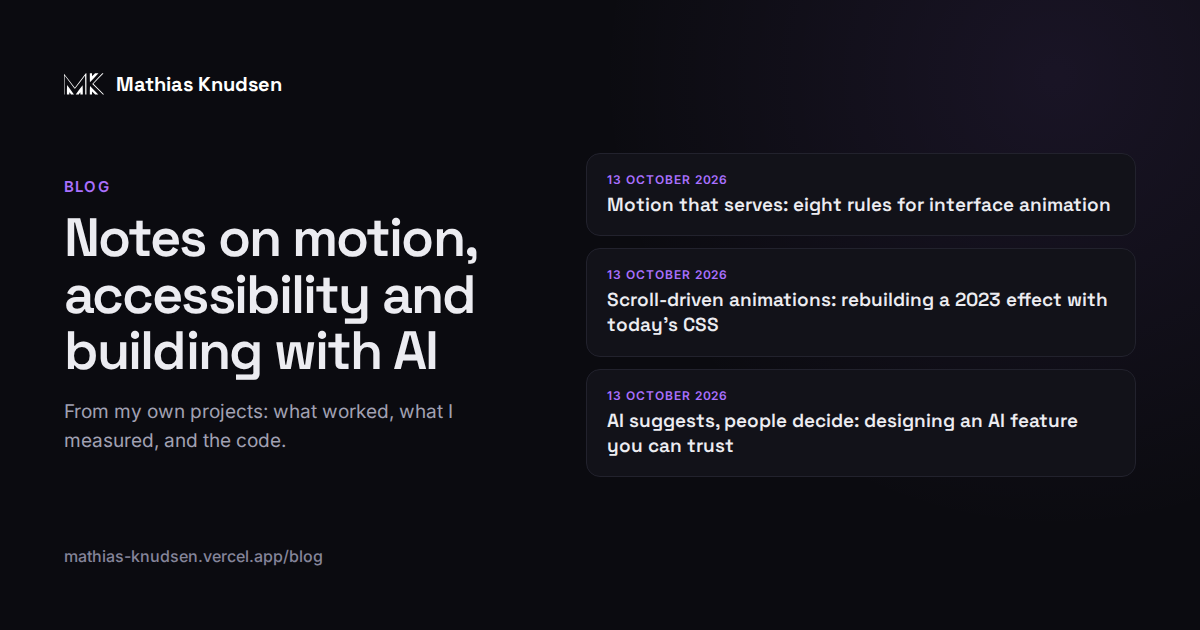
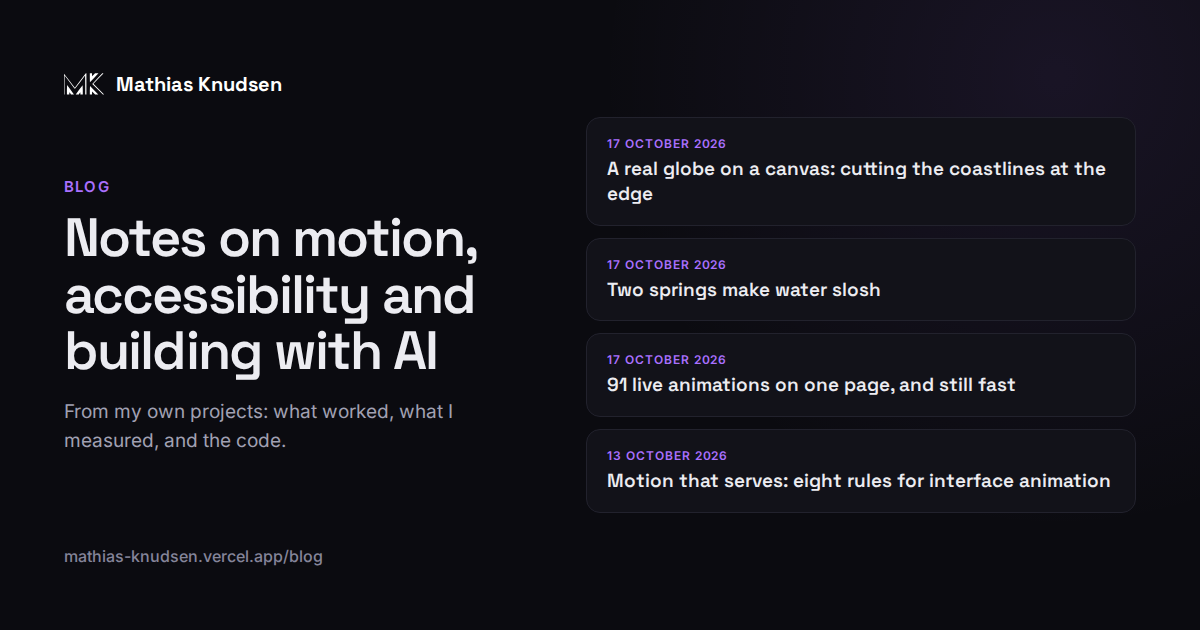
Blog: three posts from the lab
- A real globe on a canvas: the orthographic projection, cutting the
  coastlines at the edge of the sphere, and the two bugs a sweep of
  1,260 positions found.
- Two springs make water slosh: the test tube that keeps its water level
  while the glass tilts, and why the damping matters.
- 91 live animations on one page, and still fast: content-visibility,
  pausing what cannot be seen, one CSS clock, and three traps.

In English and in French, with their link previews. The tests that
counted the posts (and the site's pages) by hand now read them from the
blog's own data.

Claude-Session: https://claude.ai/code/session_01Af4ypNwssAxvDeozZygU7V

Changed region(s): [[0.4933, 0.3619, 0.925, 0.6333], [0.4933, 0.2111, 0.925, 0.3317], [0.4933, 0.6635, 0.925, 0.7841]]

diff --git a/src/blog/posts.js b/src/blog/posts.js
@@ -7,6 +7,208 @@ import { POST_META } from './meta.js'
 
 const BODIES = [
   {
+    slug: 'a-real-globe-on-a-canvas',
+    en: {
+      body: [
+        ['p', "An old CodePen of mine faked a globe: a photo of a world map sliding behind a round mask, with an inner shadow to make it look curved. It passes for a second, then you notice the continents slide flat across the middle and vanish at the edges without ever bending. For [the lab](/lab) I wanted the real thing, drawn on a 2D canvas, small enough to read in its code panel."],
+        ['h2', 'The data: 986 points of coastline'],
+        ['p', "The coastlines come from Natural Earth, which is in the public domain. Even its simplest version has more than 5,000 points, and a globe 130 pixels wide does not need that many. Simplified with the Douglas-Peucker algorithm, without the smallest islands, and rounded to half a degree, the land fits in 986 points: about 4 KB of text, written like an SVG path, one shape per `M` followed by relative steps."],
+        ['h2', 'Projecting: a sphere seen from far away'],
+        ['p', "An orthographic projection is the view of a sphere from very far away. Turn the globe by a longitude, tilt it towards the viewer, and each point keeps its x and y on the screen, while z says whether it faces us."],
+        ['code', 'js', `const project = ([lon, lat], turn) => {
+  const l = (lon + turn) * rad, p = lat * rad, t = tilt * rad
+  const x = Math.cos(p) * Math.sin(l), y = Math.sin(p), z = Math.cos(p) * Math.cos(l)
+  return { x, y: y * Math.cos(t) - z * Math.sin(t), z: y * Math.sin(t) + z * Math.cos(t) }
+}`, 'x to the right, y up, z towards the viewer: z above 0 means this side of the globe.'],
+        ['h2', 'Cutting at the edge'],
+        ['p', "The hard part is a coastline that goes round the back. Where a segment crosses from the front to the back, it meets the edge of the globe; that point lies on the straight line between its two ends, where z is 0. From there, the shape has to follow the edge of the globe until the coast comes back into view."],
+        ['p', "My first version followed the edge to the next place where the same coastline came back, in the order of its points. On most frames it looked right; at some angles the whole globe turned green. A coast that dips into view near the edge and leaves again further along broke it. The right place to rejoin is the next point where any piece comes back, **along the edge**, going round in the direction that keeps the land on the same side. That is the classic rule of polygon clipping."],
+        ['code', 'js', `// from where the coast went behind, follow the edge to the nearest place
+// where a piece comes back (way is 1 for a clockwise shape, -1 otherwise)
+const next = pieces.reduce((best, other) =>
+  turnTo(piece.to, other.from) < turnTo(piece.to, best.from) ? other : best)
+ctx.arc(c, c, r, piece.to, piece.to + turnTo(piece.to, next.from) * way, !clockwise)`],
+        ['h2', 'Two bugs the eye would never have found'],
+        ['ul', [
+          "**Cuba crossed itself.** Rounded to whole degrees, its thin outline became a figure of eight, which reverses its direction in one place, and the edge was then followed the wrong way round. At half a degree, none of the 49 shapes crosses itself, which a small script checks.",
+          "**A coast that only grazes the edge.** When a single point peeks out by a fraction of a pixel, its way in and its way out land on the same spot, and rounding can swap them. Such a piece shows nothing, so it is left out.",
+        ]],
+        ['p', "Neither bug showed up while I watched the globe turn. Both showed up when a script turned it to 1,260 positions (every 2 degrees, at 7 tilts) and measured the share of land on the visible side. The Earth never shows much more than two thirds of land, so a frame above that is a bug, whatever it looks like."],
+        ['h2', 'A CSS animation as the clock'],
+        ['p', "The globe turns with a CSS animation, and the canvas reads how far it has run at each frame. It sounds backwards, but it means the globe pauses with the lab's pause button, stays still for people who ask for reduced motion, and costs nothing off screen, like every other demo."],
+        ['code', 'css', `.lb-globe { animation: lb-turn 32s linear infinite; }
+
+@keyframes lb-turn { to { --lb-turn: 360; } }
+
+@media (prefers-reduced-motion: reduce) {
+  .lb-globe { animation: none; }
+}`],
+        ['code', 'js', `const clock = canvas.getAnimations().find((a) => a.animationName === 'lb-turn')
+const turn = (clock?.effect.getComputedTiming().progress ?? 0) * 360`, 'Read at each frame, and drawn again only when it changed. A paused animation gives a paused globe; no animation, no turn.'],
+        ['p', "Drag the globe and it spins on top of that, slowing down when you let go."],
+      ],
+    },
+    fr: {
+      body: [
+        ['p', "Un de mes anciens CodePen simulait un globe : la photo d'une carte du monde qui glissait derrière un masque rond, avec une ombre intérieure pour donner l'illusion du volume. Ça fait illusion une seconde, puis on remarque que les continents traversent le milieu à plat et disparaissent sur les bords sans jamais se courber. Pour [le lab](/lab), je voulais un vrai globe, dessiné sur un canvas 2D, assez court pour se lire dans son panneau de code."],
+        ['h2', 'Les données : 986 points de côtes'],
+        ['p', "Les côtes viennent de Natural Earth, qui est dans le domaine public. Même sa version la plus simple compte plus de 5 000 points, et un globe de 130 pixels de large n'en a pas besoin d'autant. Simplifiées avec l'algorithme de Douglas-Peucker, sans les plus petites îles, et arrondies au demi-degré, les terres tiennent en 986 points : environ 4 Ko de texte, écrits comme un tracé SVG, une forme par `M` suivie de pas relatifs."],
+        ['h2', 'Projeter : une sphère vue de très loin'],
+        ['p', "Une projection orthographique, c'est une sphère vue de très loin. On tourne le globe d'une longitude, on l'incline vers le spectateur, et chaque point garde ses x et y à l'écran, tandis que z dit s'il est face à nous."],
+        ['code', 'js', `const project = ([lon, lat], turn) => {
+  const l = (lon + turn) * rad, p = lat * rad, t = tilt * rad
+  const x = Math.cos(p) * Math.sin(l), y = Math.sin(p), z = Math.cos(p) * Math.cos(l)
+  return { x, y: y * Math.cos(t) - z * Math.sin(t), z: y * Math.sin(t) + z * Math.cos(t) }
+}`, "x vers la droite, y vers le haut, z vers le spectateur : z au-dessus de 0 veut dire de ce côté-ci du globe."],
+        ['h2', 'Couper au bord'],
+        ['p', "Le plus difficile, c'est une côte qui passe derrière. Là où un segment passe de l'avant à l'arrière, il croise le bord du globe ; ce point se trouve sur la droite entre ses deux extrémités, là où z vaut 0. À partir de là, la forme doit suivre le bord du globe jusqu'à ce que la côte revienne en vue."],
+        ['p', "Ma première version suivait le bord jusqu'au prochain endroit où la même côte revenait, dans l'ordre de ses points. Sur la plupart des images, c'était juste ; sous certains angles, tout le globe devenait vert. Une côte qui apparaît près du bord puis repart un peu plus loin suffisait à tout casser. Le bon endroit où reprendre, c'est le prochain point où un morceau revient, **le long du bord**, en tournant dans le sens qui garde la terre du même côté. C'est la règle classique du découpage de polygones."],
+        ['code', 'js', `// depuis l'endroit où la côte est passée derrière, suivre le bord jusqu'au
+// plus proche endroit où un morceau revient (way vaut 1 pour une forme
+// dans le sens horaire, -1 sinon)
+const next = pieces.reduce((best, other) =>
+  turnTo(piece.to, other.from) < turnTo(piece.to, best.from) ? other : best)
+ctx.arc(c, c, r, piece.to, piece.to + turnTo(piece.to, next.from) * way, !clockwise)`],
+        ['h2', "Deux bugs que l'œil n'aurait jamais trouvés"],
+        ['ul', [
+          "**Cuba se croisait elle-même.** Arrondi au degré, son contour très fin devenait un huit, ce qui inverse son sens à un endroit : le bord était alors suivi dans le mauvais sens. Au demi-degré, aucune des 49 formes ne se croise, et un petit script le vérifie.",
+          "**Une côte qui frôle le bord.** Quand un seul point dépasse d'une fraction de pixel, son entrée et sa sortie tombent au même endroit, et un arrondi peut les inverser. Un tel morceau ne montre rien : il est laissé de côté.",
+        ]],
+        ['p', "Aucun des deux bugs ne se voyait en regardant le globe tourner. Les deux sont apparus quand un script l'a fait tourner dans 1 260 positions (tous les 2 degrés, sous 7 inclinaisons) en mesurant la part de terre sur la face visible. La Terre ne montre jamais beaucoup plus de deux tiers de terres : une image au-dessus, c'est un bug, quoi qu'elle ait l'air."],
+        ['h2', "Une animation CSS comme horloge"],
+        ['p', "Le globe tourne grâce à une animation CSS, et le canvas lit à chaque image où elle en est. Ça semble à l'envers, mais le globe se met ainsi en pause avec le bouton du lab, reste immobile pour ceux qui demandent moins de mouvement, et ne coûte rien hors de l'écran, comme toutes les autres démos."],
+        ['code', 'css', `.lb-globe { animation: lb-turn 32s linear infinite; }
+
+@keyframes lb-turn { to { --lb-turn: 360; } }
+
+@media (prefers-reduced-motion: reduce) {
+  .lb-globe { animation: none; }
+}`],
+        ['code', 'js', `const clock = canvas.getAnimations().find((a) => a.animationName === 'lb-turn')
+const turn = (clock?.effect.getComputedTiming().progress ?? 0) * 360`, "Lue à chaque image, et redessinée seulement quand elle a changé. Animation en pause, globe en pause ; pas d'animation, pas de rotation."],
+        ['p', "Attrapez le globe : il tourne en plus, et ralentit quand on le lâche."],
+      ],
+    },
+  },
+  {
+    slug: 'two-springs-make-water-slosh',
+    en: {
+      body: [
+        ['p', "In [the lab](/lab), a test tube leans towards your pointer, and the water inside lags behind the glass, overshoots, and settles. It takes two springs and a dozen lines of JavaScript."],
+        ['h2', 'The water stays level'],
+        ['p', "Tilt a real glass and its water does not tilt with it. In SVG, that means the glass and the water live in different coordinates: the glass turns, the water does not, and the water is cut to the inside of the glass by a clip path that turns with the glass."],
+        ['code', 'html', `<clipPath id="inside"><path d="M33 16v157a17 17 0 0 0 34 0V16z"/></clipPath>
+<g clip-path="url(#inside)">
+  <g class="water"><!-- waves and bubbles --></g>
+</g>
+<g class="glass"><!-- outline, marks, shine --></g>`, "The script turns the glass and the clip path's shape together; the water only moves up and down."],
+        ['h2', 'Spring one: the glass'],
+        ['p', "The glass follows the pointer on a stiff, well damped spring: it leans quickly and stops without wobbling. A spring is two lines a frame: a pull towards the target, minus a brake that grows with the speed."],
+        ['code', 'js', `speed += ((aim - tilt) * 120 - speed * 18) * dt
+tilt += speed * dt`, 'A stiffness of 120 and a damping of 18: close to critical, so no bounce.'],
+        ['h2', 'Spring two: the water'],
+        ['p', "The water follows the glass on a softer spring, with very little damping. When the glass turns quickly, the water's idea of the angle falls behind, then overshoots. The gap between the two is the slosh, applied as a rotation of the water's surface."],
+        ['code', 'js', `lagSpeed += ((tilt - lag) * 60 - lagSpeed * 3.4) * dt
+lag += lagSpeed * dt
+const slosh = (lag - tilt) * 1.5`],
+        ['p', "The numbers matter. With a damping of 2.6, the water was still rocking two and a half seconds after the pointer left, and a test caught it before I did: it waits for the surface to settle, and it failed. At 3.4, the water sloshes two or three times and stops, which is what water does in a narrow tube."],
+        ['h2', 'Small things that make it hold up'],
+        ['ul', [
+          "**Time, not frames.** Each step uses the real time since the last frame, capped at a thirtieth of a second, so a slow phone or a tab coming back to the front cannot make the springs explode.",
+          "**No loop at rest.** When the glass and the water are both still, the script stops asking for frames; the next pointer move wakes it up.",
+          "**The waves are CSS.** Two long wave strips drift sideways at their own pace, and the bubbles rise and burst with CSS animations. They pause with the rest of the lab, and for people who ask for reduced motion they stop, along with the tilt.",
+        ]],
+        ['p', "The same two springs work for anything that should feel like it has weight: a hanging sign, a card on a string, the liquid in a progress bar."],
+      ],
+    },
+    fr: {
+      body: [
+        ['p', "Dans [le lab](/lab), un tube à essai penche vers le curseur, et l'eau à l'intérieur prend du retard sur le verre, dépasse, puis se pose. Il suffit de deux ressorts et d'une douzaine de lignes de JavaScript."],
+        ['h2', "L'eau reste à niveau"],
+        ['p', "Penchez un vrai verre : l'eau ne penche pas avec lui. En SVG, ça veut dire que le verre et l'eau vivent dans des repères différents : le verre tourne, l'eau non, et l'eau est découpée à l'intérieur du verre par un clip path qui tourne avec le verre."],
+        ['code', 'html', `<clipPath id="inside"><path d="M33 16v157a17 17 0 0 0 34 0V16z"/></clipPath>
+<g clip-path="url(#inside)">
+  <g class="water"><!-- vagues et bulles --></g>
+</g>
+<g class="glass"><!-- contour, graduations, reflet --></g>`, "Le script fait tourner ensemble le verre et la forme du clip path ; l'eau, elle, ne fait que monter et descendre."],
+        ['h2', 'Premier ressort : le verre'],
+        ['p', "Le verre suit le curseur sur un ressort raide et bien amorti : il penche vite et s'arrête sans osciller. Un ressort, c'est deux lignes par image : une traction vers la cible, moins un frein qui grandit avec la vitesse."],
+        ['code', 'js', `speed += ((aim - tilt) * 120 - speed * 18) * dt
+tilt += speed * dt`, "Une raideur de 120 et un amortissement de 18 : proche du critique, donc pas de rebond."],
+        ['h2', "Second ressort : l'eau"],
+        ['p', "L'eau suit le verre sur un ressort plus souple, très peu amorti. Quand le verre tourne vite, l'angle que « croit » l'eau prend du retard, puis dépasse. L'écart entre les deux, c'est le clapotis, appliqué comme une rotation de la surface de l'eau."],
+        ['code', 'js', `lagSpeed += ((tilt - lag) * 60 - lagSpeed * 3.4) * dt
+lag += lagSpeed * dt
+const slosh = (lag - tilt) * 1.5`],
+        ['p', "Les chiffres comptent. Avec un amortissement de 2,6, l'eau bougeait encore deux secondes et demie après le départ du curseur, et un test l'a vu avant moi : il attend que la surface se pose, et il a échoué. À 3,4, l'eau clapote deux ou trois fois puis s'arrête, comme de l'eau dans un tube étroit."],
+        ['h2', 'Les petits détails qui la rendent solide'],
+        ['ul', [
+          "**Le temps, pas les images.** Chaque pas utilise le temps réel écoulé depuis l'image précédente, plafonné à un trentième de seconde : un téléphone lent ou un onglet qui revient au premier plan ne peut pas faire exploser les ressorts.",
+          "**Pas de boucle au repos.** Quand le verre et l'eau sont immobiles, le script arrête de demander des images ; le prochain mouvement du curseur le réveille.",
+          "**Les vagues sont en CSS.** Deux longues bandes de vagues dérivent chacune à son rythme, et les bulles montent et éclatent avec des animations CSS. Elles se mettent en pause avec le reste du lab et, pour ceux qui demandent moins de mouvement, elles s'arrêtent, tout comme l'inclinaison.",
+        ]],
+        ['p', "Les deux mêmes ressorts marchent pour tout ce qui doit sembler avoir un poids : une enseigne suspendue, une carte au bout d'un fil, le liquide d'une barre de progression."],
+      ],
+    },
+  },
+  {
+    slug: '91-live-animations-one-page',
+    en: {
+      body: [
+        ['p', "[The lab](/lab) is a single page with 91 animations, all live: buttons that ripple, loaders that turn, a globe, a test tube full of bubbles. Each one is real HTML and CSS, sometimes with a little JavaScript, not a video. A page like that can easily make a phone hot and slow. It scores 97 for performance on Lighthouse's mobile test, with around 30 milliseconds of blocking time. Three things keep it there."],
+        ['h2', "1. Don't draw what nobody sees"],
+        ['p', "With `content-visibility: auto`, the browser skips the layout and the painting of a card while it is far off screen. Before it, the page scored between 90 and 95; after, 97. The catch is the scroll bar: a skipped card has no size, so the page would jump as cards come into view. `contain-intrinsic-size` gives each card a size to keep in reserve, and the `auto` keyword remembers its real size once it has been seen."],
+        ['code', 'css', `.lab-card {
+  content-visibility: auto;
+  contain-intrinsic-size: auto 470px;
+}`],
+        ['h2', '2. Pause what cannot be seen'],
+        ['p', "Skipping the painting does not stop the animations. Each card watches itself with an IntersectionObserver and marks itself when it is near the screen; everything else is paused by one rule. The pause button at the top of the page uses the same rule for the whole grid."],
+        ['code', 'css', `.lab-card:not([data-inview]) .lab-stage *,
+.lab-grid[data-paused] .lab-stage * {
+  animation-play-state: paused !important;
+}`],
+        ['p', "JavaScript does the same where it animates on its own: the globe and the test tube only ask for frames while they are on screen, and stop asking as soon as nothing moves."],
+        ['h2', '3. One clock for everyone'],
+        ['p', "When a demo needs JavaScript to draw, its timing still comes from CSS. The globe's turn is a CSS animation of a typed property that the canvas reads, so the pause rule, the off screen rule and reduced motion all apply to it without a single extra line. I wrote more about it in [a real globe on a canvas](/blog/a-real-globe-on-a-canvas)."],
+        ['h2', 'Three traps I fell into'],
+        ['ul', [
+          "**Filtering jumped to the top of the page.** Clicking a category swaps the cards, and the browser's scroll anchoring picked an anchor of its own, often the top of the page. `overflow-anchor: none` on the grid turns it off, and the page scrolls to the results itself.",
+          "**A focused demo scrolled its own card.** With `overflow: hidden`, a button that receives the focus inside a card can still scroll the card to show itself: one demo moved 58 pixels sideways. `overflow: clip` cuts the same way, but nothing can scroll it.",
+          "**A French label widened the menu.** The French pause button, Mettre les animations en pause, was too long for its 220 pixel column; the grid track grew to fit it and cut off everything else. `minmax(0, 1fr)` keeps the column at its width, and the label became Tout mettre en pause. Only a test run in both languages caught it.",
+        ]],
+        ['p', "None of this is exotic: two CSS properties, one observer, one rule for pausing. What made the difference was measuring before and after each change, on a phone profile, not on my desk."],
+      ],
+    },
+    fr: {
+      body: [
+        ['p', "[Le lab](/lab) est une seule page avec 91 animations, toutes en direct : des boutons qui ondulent, des chargements qui tournent, un globe, un tube à essai plein de bulles. Chacune est du vrai HTML et du CSS, parfois avec un peu de JavaScript, pas une vidéo. Une page pareille peut vite faire chauffer et ralentir un téléphone. Elle obtient 97 en performance au test mobile de Lighthouse, avec environ 30 millisecondes de blocage. Trois choses l'y maintiennent."],
+        ['h2', '1. Ne pas dessiner ce que personne ne voit'],
+        ['p', "Avec `content-visibility: auto`, le navigateur saute la mise en page et le dessin d'une carte tant qu'elle est loin de l'écran. Avant, la page obtenait entre 90 et 95 ; après, 97. Le piège, c'est la barre de défilement : une carte sautée n'a pas de taille, et la page sauterait à mesure que les cartes apparaissent. `contain-intrinsic-size` donne à chaque carte une taille à garder en réserve, et le mot-clé `auto` retient sa vraie taille une fois qu'elle a été vue."],
+        ['code', 'css', `.lab-card {
+  content-visibility: auto;
+  contain-intrinsic-size: auto 470px;
+}`],
+        ['h2', "2. Mettre en pause ce qu'on ne voit pas"],
+        ['p', "Sauter le dessin n'arrête pas les animations. Chaque carte se surveille avec un IntersectionObserver et se marque quand elle est près de l'écran ; tout le reste est mis en pause par une seule règle. Le bouton pause en haut de la page utilise la même règle pour toute la grille."],
+        ['code', 'css', `.lab-card:not([data-inview]) .lab-stage *,
+.lab-grid[data-paused] .lab-stage * {
+  animation-play-state: paused !important;
+}`],
+        ['p', "Le JavaScript fait de même là où il anime lui-même : le globe et le tube à essai ne demandent des images que lorsqu'ils sont à l'écran, et arrêtent dès que plus rien ne bouge."],
+        ['h2', '3. Une seule horloge pour tous'],
+        ['p', "Quand une démo a besoin de JavaScript pour dessiner, son rythme vient quand même du CSS. La rotation du globe est une animation CSS d'une propriété typée que le canvas lit : la règle de pause, la règle hors écran et le mouvement réduit s'y appliquent sans une ligne de plus. J'en parle davantage dans [un vrai globe sur un canvas](/blog/a-real-globe-on-a-canvas)."],
+        ['h2', 'Trois pièges dans lesquels je suis tombé'],
+        ['ul', [
+          "**Filtrer renvoyait en haut de la page.** Cliquer sur une catégorie remplace les cartes, et l'ancrage du défilement du navigateur choisissait une ancre à lui, souvent le haut de la page. `overflow-anchor: none` sur la grille le désactive, et la page fait défiler elle-même jusqu'aux résultats.",
+          "**Une démo qui prenait le focus faisait défiler sa carte.** Avec `overflow: hidden`, un bouton qui reçoit le focus dans une carte peut encore faire défiler la carte pour se montrer : une démo s'est décalée de 58 pixels. `overflow: clip` coupe de la même façon, mais rien ne peut le faire défiler.",
+          "**Un libellé français élargissait le menu.** « Mettre les animations en pause » était trop long pour sa colonne de 220 pixels ; la piste de la grille s'élargissait pour le contenir et coupait tout le reste. `minmax(0, 1fr)` garde la colonne à sa largeur, et le libellé est devenu « Tout mettre en pause ». Seul un test lancé dans les deux langues l'a vu.",
+        ]],
+        ['p', "Rien de tout ça n'est exotique : deux propriétés CSS, un observateur, une règle de pause. Ce qui a fait la différence, c'est de mesurer avant et après chaque changement, avec un profil de téléphone, pas sur mon bureau."],
+      ],
+    },
+  },
+  {
     slug: 'motion-that-serves',
     en: {
       body: [

diff --git a/src/blog/meta.js b/src/blog/meta.js
@@ -6,6 +6,48 @@ import { LAB_COUNT } from '../lab/count.js'
 
 export const POST_META = [
   {
+    slug: "a-real-globe-on-a-canvas",
+    date: "2026-10-17",
+    tags: ["Canvas", "JavaScript", "Animation"],
+    related: { href: "/lab", en: "Spin the globe in the lab, under From my archive", fr: "Faire tourner le globe dans le lab, rubrique Mes archives" },
+    en: {
+      title: "A real globe on a canvas: cutting the coastlines at the edge",
+      description: "How the globe in the lab draws real coastlines on a turning sphere: an orthographic projection, coastlines cut where they pass behind, and the two bugs that once filled the whole globe with land.",
+    },
+    fr: {
+      title: "Un vrai globe sur un canvas : couper les côtes au bord de la sphère",
+      description: "Comment le globe du lab dessine de vraies côtes sur une sphère qui tourne : une projection orthographique, des côtes coupées là où elles passent derrière, et les deux bugs qui remplissaient tout le globe de terre.",
+    },
+  },
+  {
+    slug: "two-springs-make-water-slosh",
+    date: "2026-10-17",
+    tags: ["Animation", "JavaScript", "SVG"],
+    related: { href: "/lab", en: "Tilt the test tube in the lab, under From my archive", fr: "Pencher le tube à essai dans le lab, rubrique Mes archives" },
+    en: {
+      title: "Two springs make water slosh",
+      description: "The test tube in the lab leans towards the pointer and its water sloshes before it settles. Two springs, a dozen lines of JavaScript, and why the water must not turn with the glass.",
+    },
+    fr: {
+      title: "Deux ressorts pour faire clapoter de l'eau",
+      description: "Le tube à essai du lab penche vers le curseur et son eau clapote avant de se poser. Deux ressorts, une douzaine de lignes de JavaScript, et pourquoi l'eau ne doit pas tourner avec le verre.",
+    },
+  },
+  {
+    slug: "91-live-animations-one-page",
+    date: "2026-10-17",
+    tags: ["Performance", "CSS", "Animation"],
+    related: { href: "/lab", en: `Open the lab: ${LAB_COUNT} live animations`, fr: `Ouvrir le lab : ${LAB_COUNT} animations en direct` },
+    en: {
+      title: "91 live animations on one page, and still fast",
+      description: "The lab runs 91 live demos on a single page and scores 97 on Lighthouse's mobile test. What keeps it there: not drawing what is off screen, pausing what cannot be seen, and three traps I fell into.",
+    },
+    fr: {
+      title: "91 animations en direct sur une page, et toujours rapide",
+      description: "Le lab fait tourner 91 démos en direct sur une seule page et obtient 97 au test mobile de Lighthouse. Ce qui l'y maintient : ne pas dessiner ce qui est hors de l'écran, mettre en pause ce qu'on ne voit pas, et trois pièges dans lesquels je suis tombé.",
+    },
+  },
+  {
     slug: "motion-that-serves",
     date: "2026-10-13",
     tags: ["Animation", "CSS", "Accessibility"],
